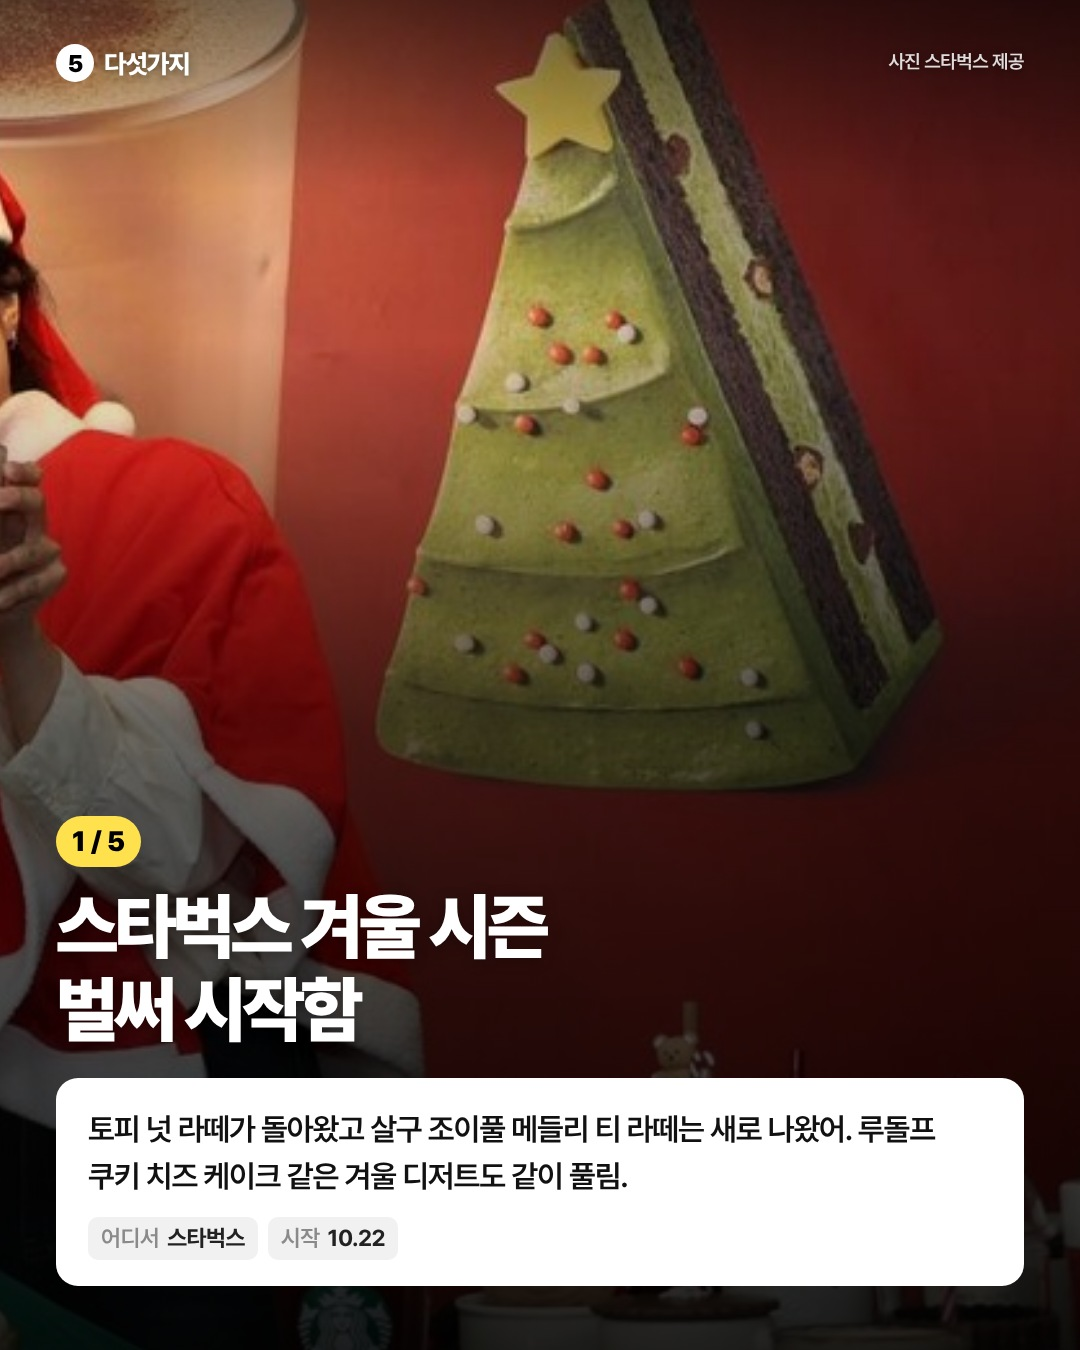
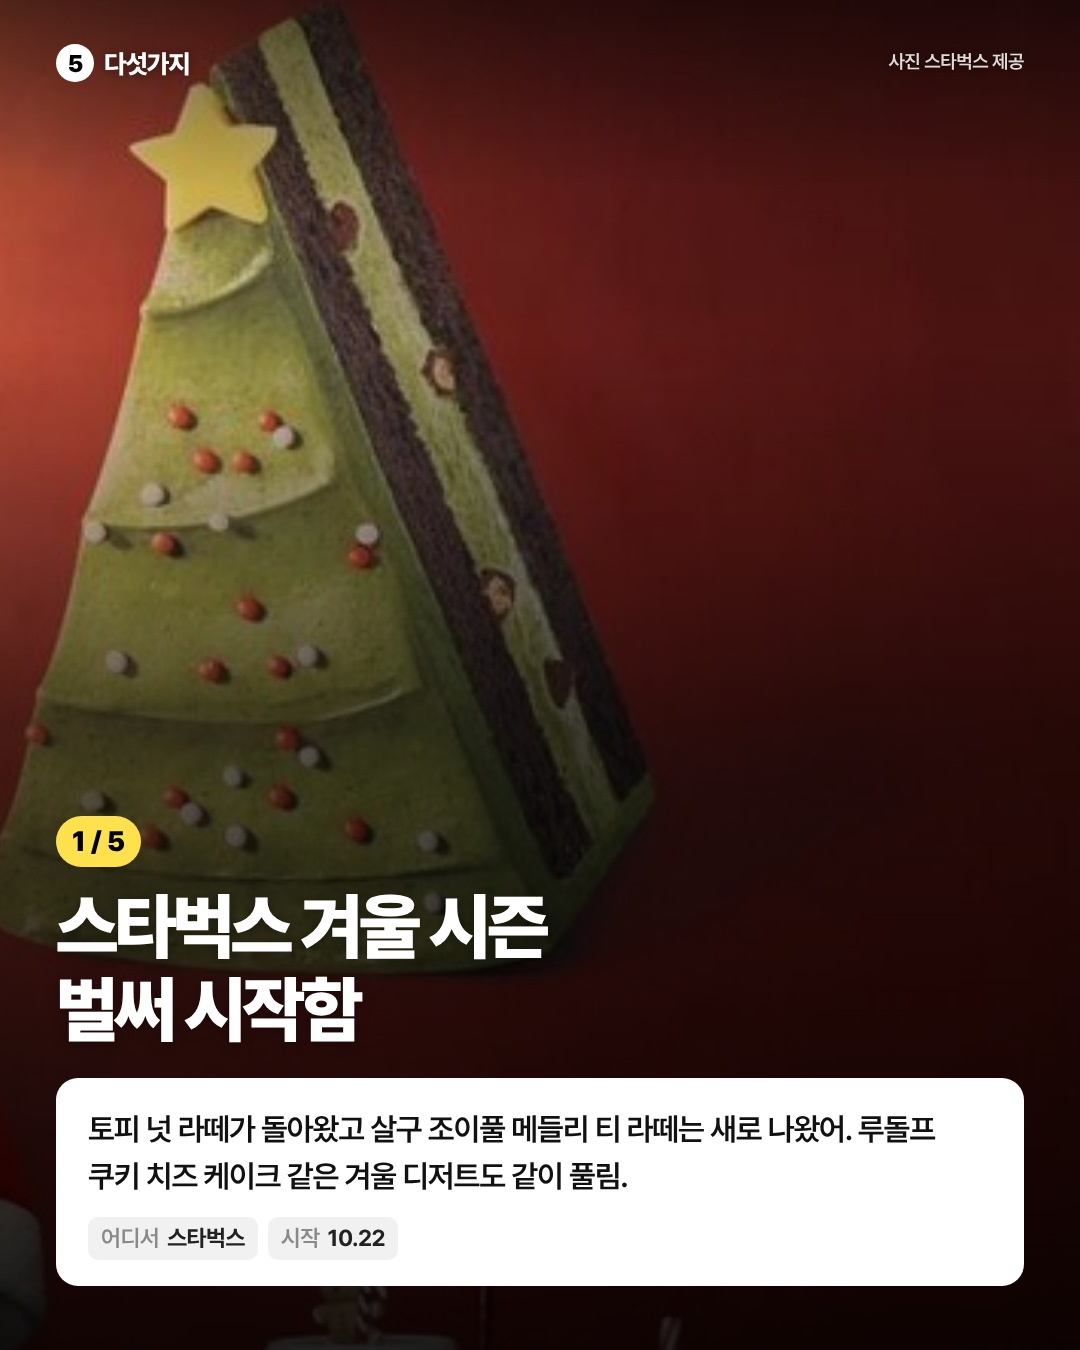
표지를 사진 한 장으로 변경
다섯 개를 표지에 다 보여주면 넘겨볼 이유가 없어서, 가장 눈길 가는 품목 하나만 크게 쓰도록 바꿈

Claude-Session: https://claude.ai/code/session_01RFjrzAY8sY1kpLZQgMxRS3

diff --git a/template.html b/template.html
@@ -76,7 +76,8 @@ const fig = (src,focus,zoom) => `<figure><img src="${esc(src)}" style="object-po
 const mark = `<div class="mark"><b>5</b>다섯가지</div>`;
 
 function cover(p){
-  const pics = (p.cover_images || p.items.slice(0,1).map(i=>({image:i.image,focus:i.focus}))).slice(0,4);
+  // 표지는 기본적으로 사진 1장 (다 보여주면 안 넘겨봄). cover_images로 바꿀 수 있음
+  const pics = (p.cover_images && p.cover_images.length ? p.cover_images : [p.items[0]]).slice(0,4);
   return `<div class="bg n${pics.length}">${pics.map(c=>fig(c.image,c.focus,c.zoom)).join("")}</div>
     <div class="shade"></div><div class="topshade"></div>${mark}
     <div class="foot"><span class="pill">${esc(p.kicker)}</span><h1 class="title">${br(p.title)}</h1></div>`;

diff --git a/scripts/fetch_images.py b/scripts/fetch_images.py
@@ -61,10 +61,10 @@ def main(post_path):
                 print(f"경고: {i}번 사진 실패 {e}")
         if not it.get("image"):
             raise SystemExit(f"{i}번 품목 사진을 못 받음. 이 게시물은 올리지 않음.")
-    # 표지: 지정 안 했으면 앞의 4장으로 콜라주
+    # 표지: cover_item(1~5)으로 고른 품목 사진 1장. 없으면 1번 품목
     if not post.get("cover_images"):
-        post["cover_images"] = [{"image": it["image"], "focus": it.get("focus", "50% 50%")}
-                                for it in post["items"][:4]]
+        it = post["items"][int(post.get("cover_item", 1)) - 1]
+        post["cover_images"] = [{k: it[k] for k in ("image", "focus", "zoom") if k in it}]
     post_path.write_text(json.dumps(post, ensure_ascii=False, indent=2), encoding="utf-8")
 
 if __name__ == "__main__":

diff --git a/STYLE_GUIDE.md b/STYLE_GUIDE.md
@@ -11,7 +11,7 @@
 
 ## 기준 계정: @20s_mag (2026-10-24 직접 확인)
 
-- 표지: 실제 사진이 화면을 꽉 채우고(1장 또는 2~4장 콜라주), 아래쪽이 어둡게 깔리고, 흰색 아주 굵은 제목 2줄, 제목 위에 흰 말풍선 문구.
+- 표지: 실제 사진 한 장이 화면을 꽉 채우고, 아래쪽이 어둡게 깔리고, 흰색 아주 굵은 제목 2줄, 제목 위에 흰 말풍선 문구.
 - 제목 말투: '~.zip', '~다고?', '~ㄷㄷ', '~모아봄'
 - 안쪽: 한 장에 품목 하나. 사진 + 큰 제목 + 흰 상자 속 요약 + 출처.
 - 반응: 주간 핫이슈 모음, 다이소·편의점 신상이 평소의 10배. '댓글에 OO 남기면 링크 보내줌' 게시물은 댓글이 평소의 10배 이상.
@@ -46,7 +46,8 @@
   "date": "2026-10-25",
   "category": "먹거리",
   "kicker": "10월 넷째 주 신상 먹템 ✦",
-  "title": "이번주 새로 나온\n먹템 다섯가지",
+  "title": "벌써 겨울 신메뉴\n풀리기 시작함",
+  "cover_item": 1,
   "items": [
     {
       "name": "두 줄 제목\n줄당 12자 이내",
@@ -63,7 +64,8 @@
   "caption": "아래 캡션 공식대로"
 }
 ```
-- 표지 사진(cover_images)은 비워두면 앞의 4장으로 콜라주를 만든다.
+- 표지는 사진 1장만 쓴다. 다섯 개 중 가장 눈길 가는 품목을 cover_item(1~5)으로 고른다. 콜라주로 다 보여주면 안 넘겨보니까 쓰지 않는다.
+- 표지 제목은 다섯 개를 나열하지 말고 하나를 앞세워 궁금하게 만든다. 예: '벌써 겨울 신메뉴\n풀리기 시작함', '이번주 다이소\n이건 사야 됨'.
 
 ## 글자 수
 
